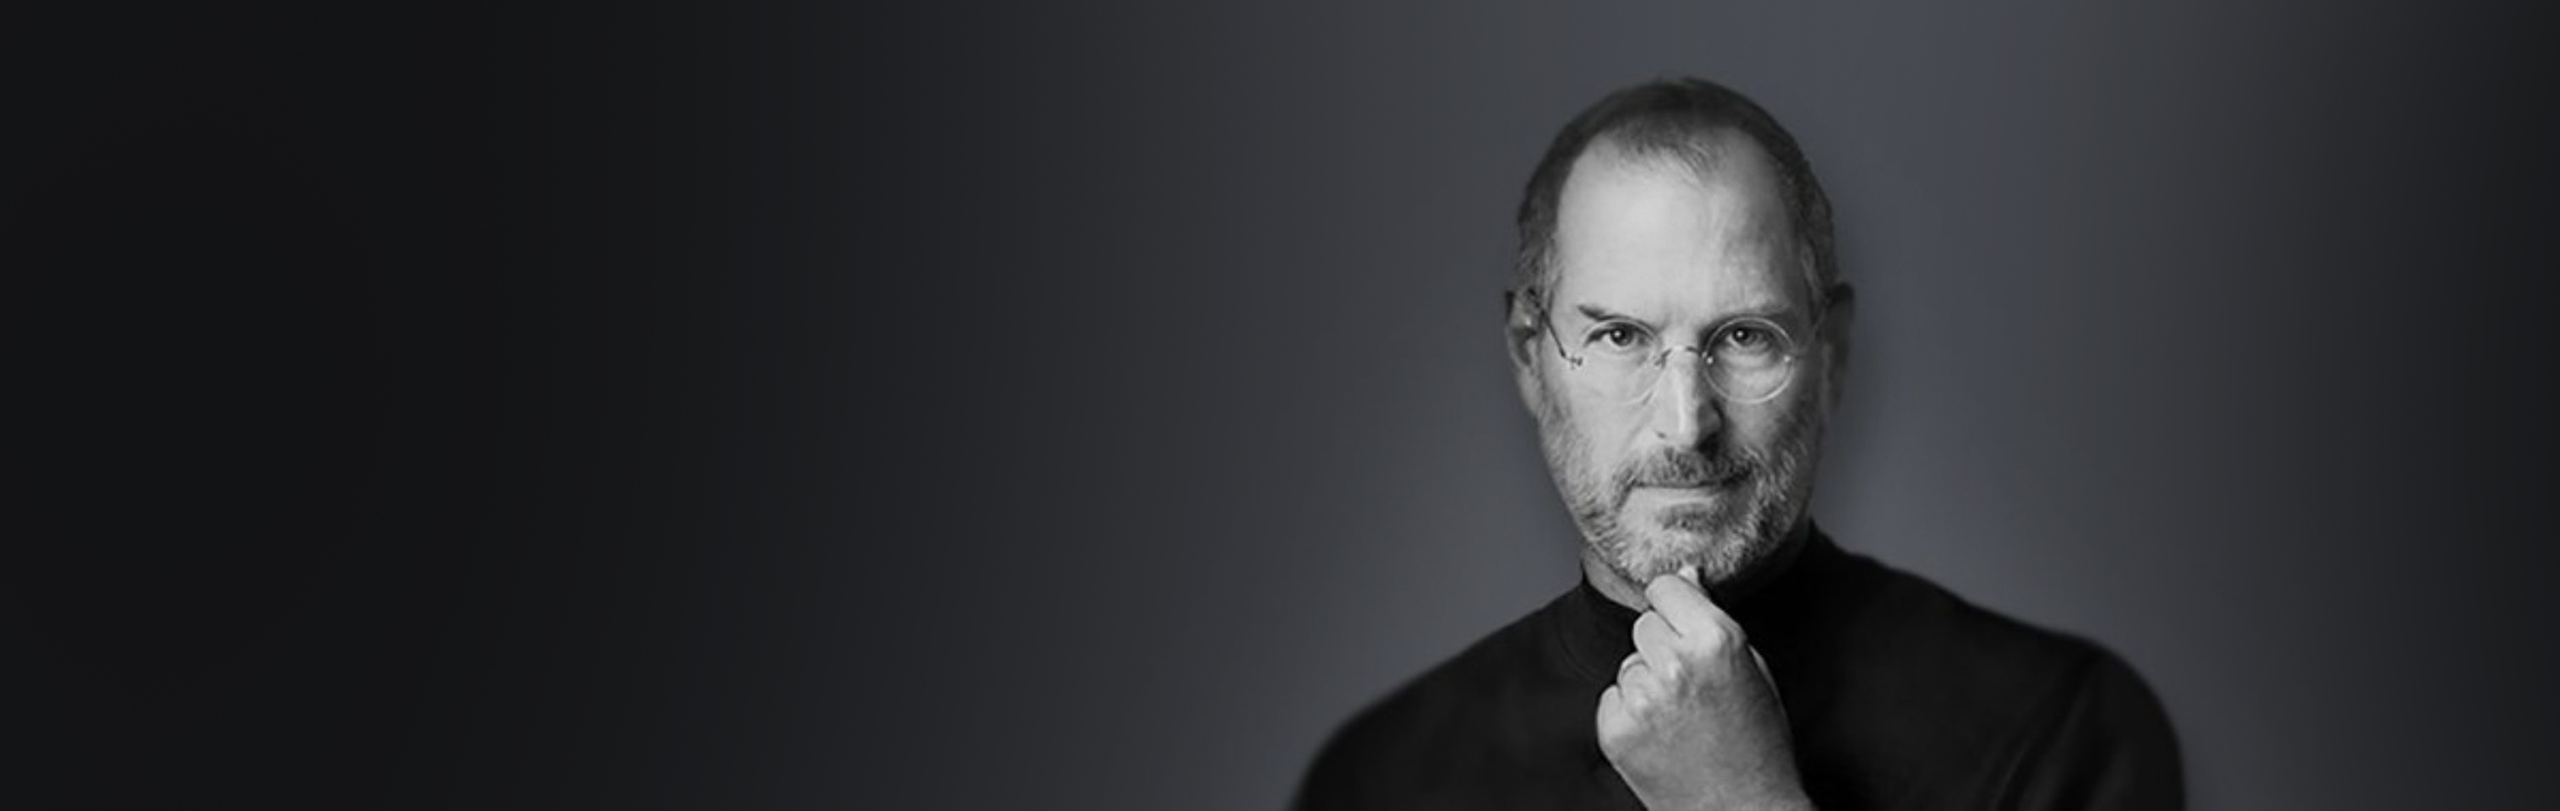
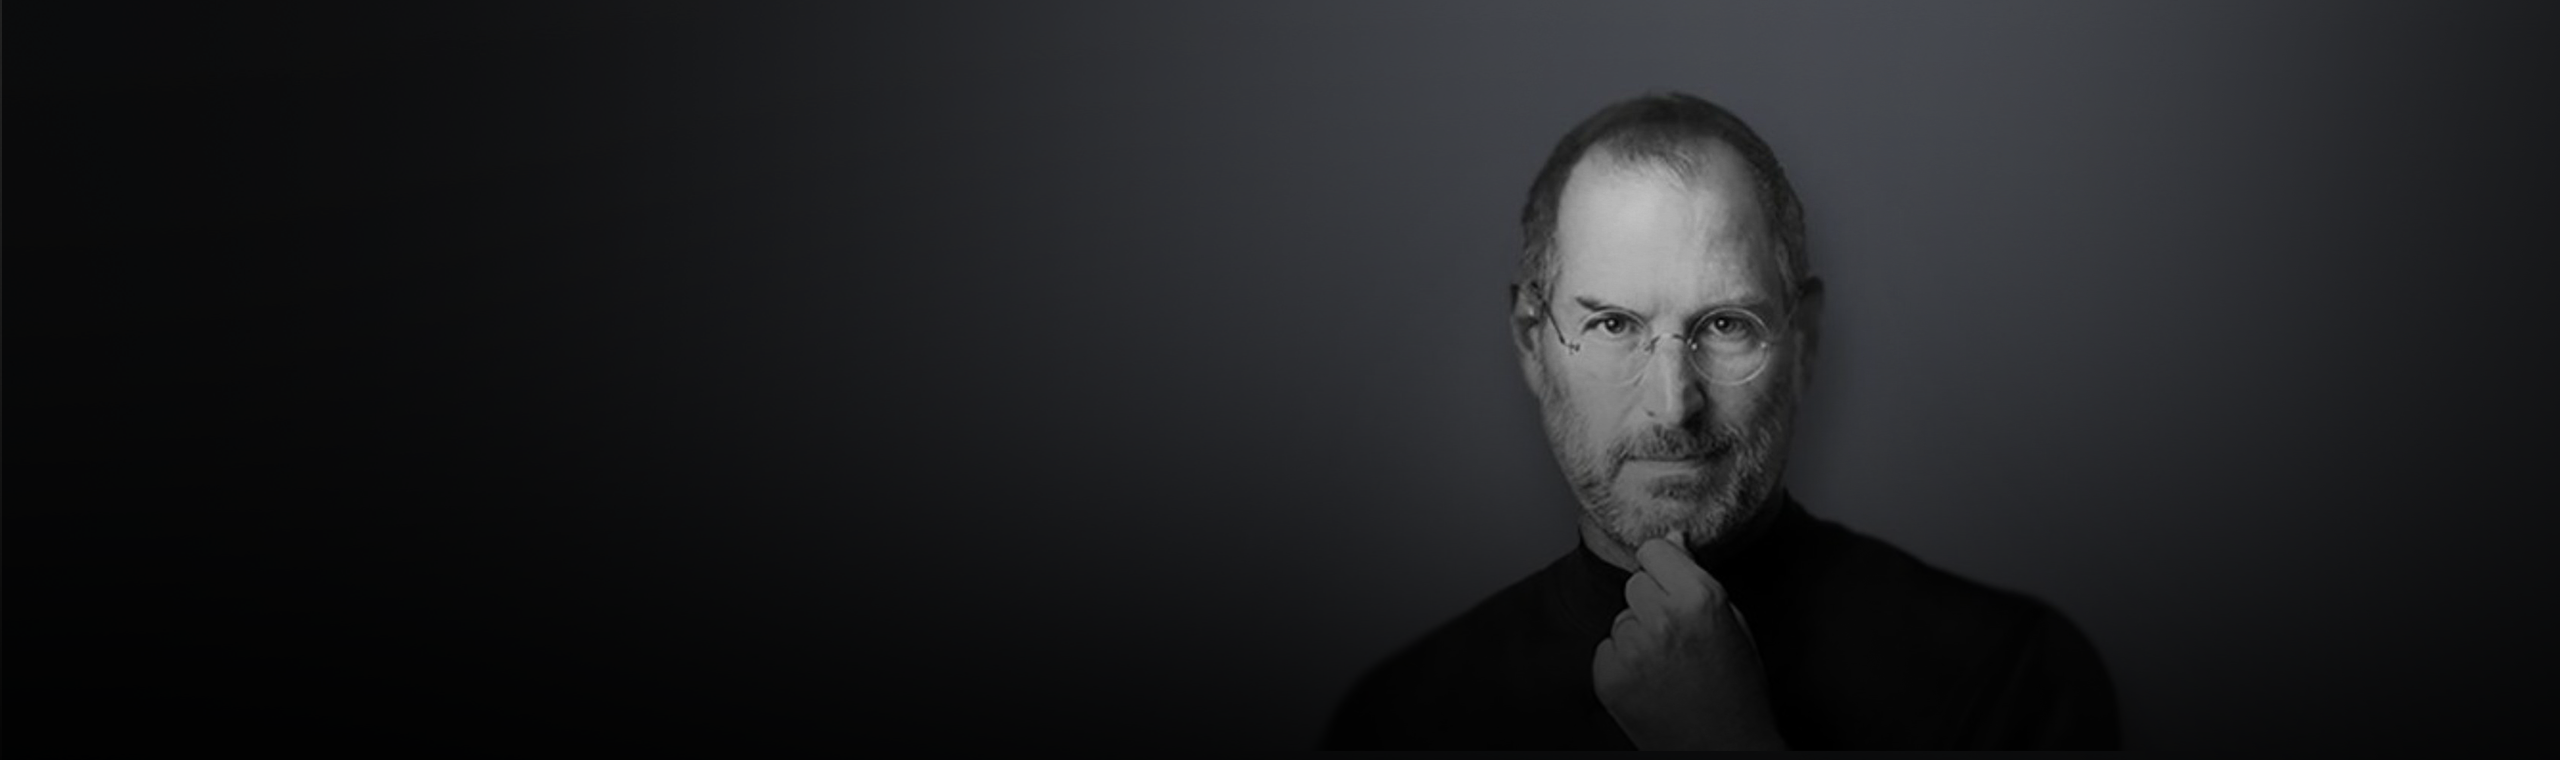
jobs img portfolio img and careers page designing

Changed region(s): [[0.25, 0.0908, 1.0, 1.0]]

diff --git a/careers2.html b/careers2.html
@@ -108,7 +108,32 @@ gtag('config', 'UA-154651245-1');
   </div>
 </div>
 
+<div class="row mb-5">
+  <div data-toggle="modal" data-target="#myModal" class="gallery_product col-sm-4 col-xs-12 col-md-6 col-lg-4 career1-apply " data-img="http://placehold.it/340x340" data-title="title1" data-text="text1"> 
+    <h3>Web Devolepment</h3>
+    <p>For thosee intrested in website creation</p>
+    <div class="">
+      <a href="contact-us.html" class="button w-button  port-button">Apply</a>
+    </div>
+</div>
 
+<div data-toggle="modal" data-target="#myModal" class="gallery_product col-sm-4 col-xs-12 col-md-6 col-lg-4 career1-apply " data-img="http://placehold.it/340x340" data-title="title1" data-text="text1"> 
+  <h3>Marketing</h3>
+  <p>For those who are good in selling products</p>
+  <div class="">
+    <a href="contact-us.html" class="button w-button  port-button">Apply</a>
+  </div>
+</div>
+
+<div data-toggle="modal" data-target="#myModal" class="gallery_product col-sm-4 col-xs-12 col-md-6 col-lg-4 career1-apply " data-img="http://placehold.it/340x340" data-title="title1" data-text="text1"> 
+  <h3>Web Devolepment</h3>
+  <p>For thosee intrested in website creation</p>
+  <div class="">
+    <a href="contact-us.html" class="button w-button  port-button">Apply</a>
+  </div>
+</div>
+
+</div>
 
   <div class="section section-footer">
 

diff --git a/index.html b/index.html
@@ -346,18 +346,13 @@
   <div class="poster">
     <div class="container">
       <div class="row">
-        <div class="col-xs-12 col-sm-4 footer-quote-block">
+        <div class="col-xs-12 col-sm-6 footer-quote-block">
           <h3 class="footer-quote txt-white">Be a yardstick of quality. Some people aren't used to an environment where
             excellence is expected.</h3>
           <p class="quote-by h4 txt-upper txt-white">Steve Jobs</p>
         </div>
-        <div class="col-xs-12 col-sm-4 footer-quote-block v-hide hideonmob">
-
-          <h3 class="footer-quote txt-white">Simplicity is not the goal. It is the by-product of a good idea and modest
-            expectations.</h3>
-          <p class="quote-by h4 txt-upper txt-white">Paul Rand</p>
-        </div>
-        <div class="col-xs-12 col-sm-4 footer-quote-block v-hide hideonmob">
+        
+        <div class="col-xs-12 col-sm-6 footer-quote-block v-hide hideonmob">
           <h3 class="footer-quote txt-white">Simplicity is not the goal. It is the by-product of a good idea and modest
             expectations.</h3>
           <p class="quote-by h4 txt-upper txt-white">Paul Rand</p>

diff --git a/css/style.css b/css/style.css
@@ -237,7 +237,7 @@ a.nav-link.w-nav-link.w--current {
 .poster {
     /* background-color: #161616; */
     padding-top: 80px;
-    padding-bottom: 80px;
+    padding-bottom: 50px;
     background-image: url(../images/jobs_s.png);
     background-repeat: no-repeat;
     /* background-position: 50%; */
@@ -245,9 +245,10 @@ a.nav-link.w-nav-link.w--current {
     position: relative;
     background-size: cover;
     z-index: 1;
+    background-position: center;
 }
   .footer-quote {
-    max-width: 350px;
+    max-width: 600px;
     font-weight: normal;
     opacity: 0.8;
 }

diff --git a/css/style1.css b/css/style1.css
@@ -59,10 +59,21 @@
 .cr2-txt{
     font-weight: normal;
 }
-.box-sec{
-    background-color: white;
+.career1-apply {
+    border: 0px solid #000000;
+    box-shadow: 0px 0px 2px black;
+    border-radius:15px;
+    position: relative;
+    min-height: auto;
+    padding: 0px 40px;
+    padding-bottom: 10px;
 }
-
+.mb-5{
+    margin-bottom: 50px;
+}
+.apply-btn{
+    text-align: left;
+}
 @media(max-width: 768px){
     .career1-right {
         width: 57%;

diff --git a/portfolio.html b/portfolio.html
@@ -76,7 +76,7 @@ y
     <div class="wrapper left-aligned">
       <div>
         <div class="col-2">
-          <h1 class="no-margins page-title">Our Work</h1>
+          <h1 class="no-margins page-title">Portfolio</h1>
         </div>
       </div>
     </div>
